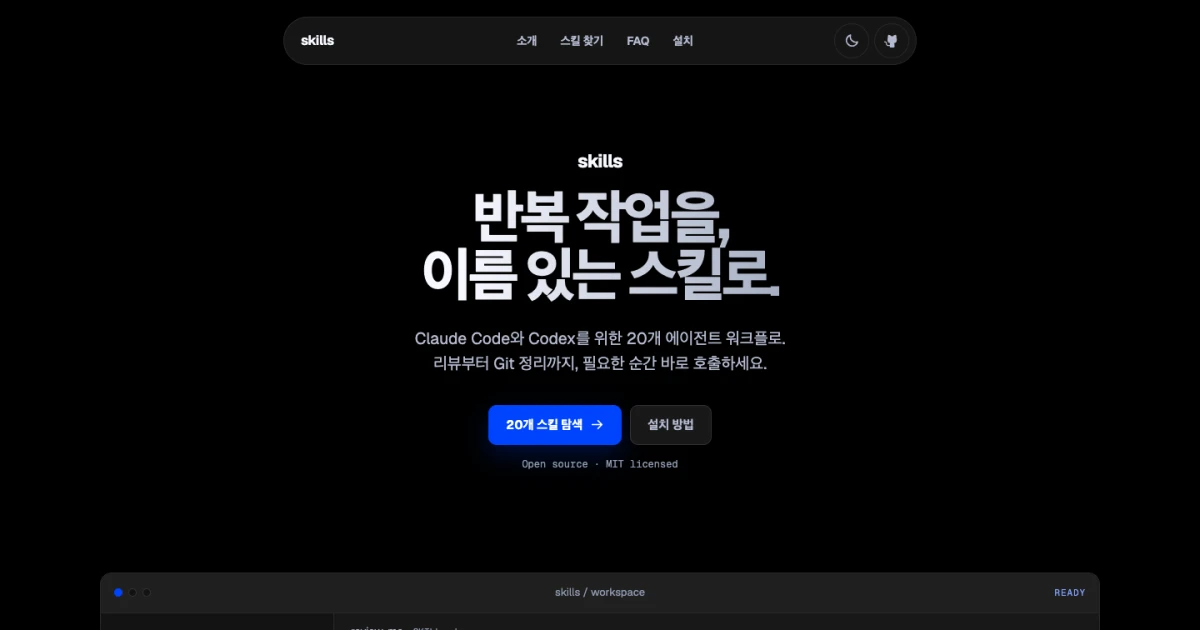
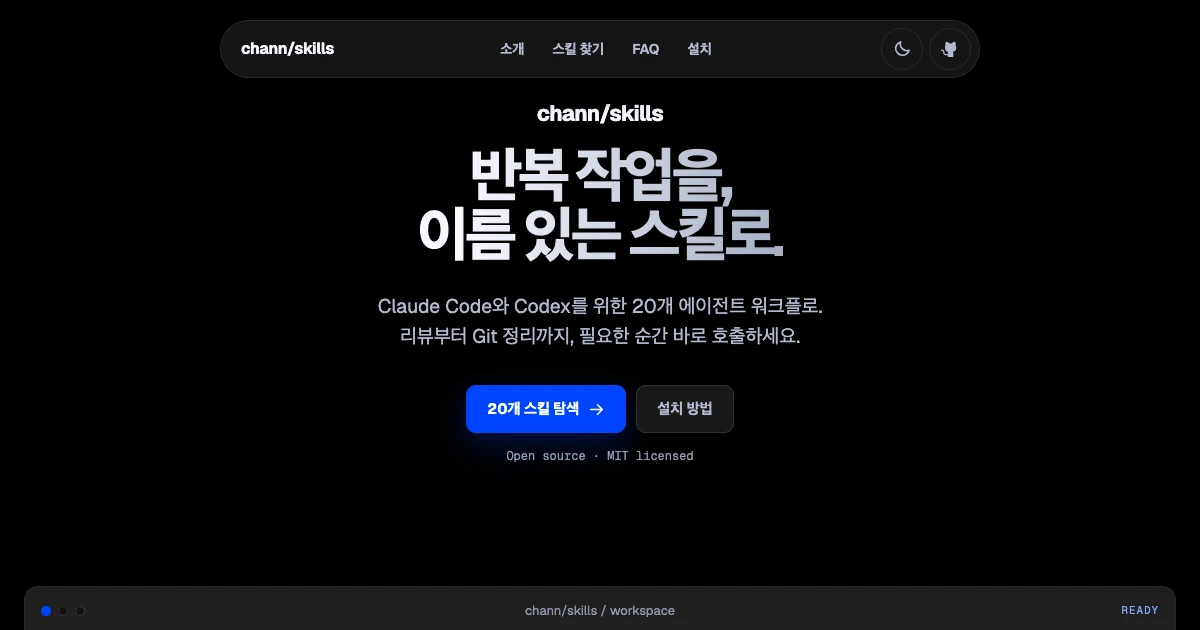
fix(site): show chann/skills repository branding

diff --git a/website/src/App.tsx b/website/src/App.tsx
@@ -16,6 +16,7 @@ import { TaglineReveal } from "./components/TaglineReveal";
 import { ThemeToggle } from "./components/ThemeToggle";
 import { categoryOrder, skills } from "./data/skills";
 
+const repositoryName = "chann/skills";
 const installCommand =
   "npx skills add chann/skills --skill '*' --agent claude-code codex --global --yes";
 const updateCommand = "npx skills update chann/skills";
@@ -109,7 +110,7 @@ function ProductPreview() {
           <i />
           <i />
         </span>
-        <span>skills / workspace</span>
+        <span>{repositoryName} / workspace</span>
         <code>ready</code>
       </div>
 
@@ -209,8 +210,8 @@ export function App() {
 
       <header className="site-header">
         <div className="site-header__inner">
-          <a className="brand" href="#main" aria-label="skills 홈">
-            <span>skills</span>
+          <a className="brand" href="#main" aria-label={`${repositoryName} 홈`}>
+            <span>{repositoryName}</span>
           </a>
 
           <nav aria-label="주요 메뉴">
@@ -251,7 +252,7 @@ export function App() {
               ease: [0.16, 1, 0.3, 1],
             }}
           >
-            <p className="hero__brand">skills</p>
+            <p className="hero__brand">{repositoryName}</p>
             <h1 id="hero-title">
               <span>반복 작업을,</span>
               <span>이름 있는 스킬로.</span>
@@ -499,8 +500,8 @@ export function App() {
 
       <footer className="site-footer">
         <div className="site-footer__top">
-          <a className="brand" href="#main" aria-label="skills 홈">
-            <span>skills</span>
+          <a className="brand" href="#main" aria-label={`${repositoryName} 홈`}>
+            <span>{repositoryName}</span>
           </a>
           <p>Practical agent workflows for software engineering.</p>
           <div>
@@ -521,7 +522,7 @@ export function App() {
           </div>
         </div>
         <div className="site-footer__word" aria-hidden="true">
-          {"skills".split("").map((letter, index) => (
+          {repositoryName.split("").map((letter, index) => (
             <motion.span
               key={index}
               initial={reduceMotion ? false : { y: "0.42em", opacity: 0 }}

diff --git a/website/index.html b/website/index.html
@@ -11,8 +11,8 @@
     <link rel="canonical" href="https://chann.github.io/skills/" />
     <meta property="og:type" content="website" />
     <meta property="og:locale" content="ko_KR" />
-    <meta property="og:site_name" content="skills" />
-    <meta property="og:title" content="skills - 반복 작업을, 이름 있는 스킬로" />
+    <meta property="og:site_name" content="chann/skills" />
+    <meta property="og:title" content="chann/skills - 반복 작업을, 이름 있는 스킬로" />
     <meta
       property="og:description"
       content="Claude Code와 Codex를 위한 검증된 에이전트 워크플로를 찾고 한 명령으로 설치하세요."
@@ -24,9 +24,9 @@
     />
     <meta property="og:image:width" content="1200" />
     <meta property="og:image:height" content="630" />
-    <meta property="og:image:alt" content="skills 웹사이트의 에이전트 워크플로 실행 화면" />
+    <meta property="og:image:alt" content="chann/skills 웹사이트의 에이전트 워크플로 실행 화면" />
     <meta name="twitter:card" content="summary_large_image" />
-    <meta name="twitter:title" content="skills - 반복 작업을, 이름 있는 스킬로" />
+    <meta name="twitter:title" content="chann/skills - 반복 작업을, 이름 있는 스킬로" />
     <meta
       name="twitter:description"
       content="Claude Code와 Codex를 위한 검증된 에이전트 워크플로를 찾고 한 명령으로 설치하세요."
@@ -48,7 +48,7 @@
         document.documentElement.dataset.theme = "dark";
       }
     </script>
-    <title>skills - 반복 작업을, 이름 있는 스킬로</title>
+    <title>chann/skills - 반복 작업을, 이름 있는 스킬로</title>
     <script type="application/ld+json">
       {
         "@context": "https://schema.org",

diff --git a/website/public/404.html b/website/public/404.html
@@ -4,7 +4,7 @@
     <meta charset="UTF-8" />
     <meta name="viewport" content="width=device-width, initial-scale=1.0" />
     <meta name="robots" content="noindex" />
-    <title>404 - skills</title>
+    <title>404 - chann/skills</title>
     <link rel="icon" href="/skills/favicon.svg" type="image/svg+xml" />
     <style>
       :root {
@@ -115,7 +115,7 @@
   </head>
   <body>
     <main>
-      <span class="kicker">404</span>
+      <span class="kicker">chann/skills · 404</span>
       <h1>페이지가 없습니다.</h1>
       <p>주소가 바뀌었거나 잘못 입력됐습니다. 스킬 카탈로그는 홈에 있습니다.</p>
       <a class="button" href="/skills/">홈으로 돌아가기</a>

diff --git a/website/src/styles.css b/website/src/styles.css
@@ -1518,7 +1518,7 @@ code {
   margin: 52px 0 0;
   overflow: hidden;
   color: var(--accent);
-  font-size: clamp(9rem, 24vw, 22rem);
+  font-size: clamp(5rem, 12vw, 11rem);
   font-weight: 730;
   letter-spacing: -0.09em;
   line-height: 0.84;
@@ -1893,7 +1893,7 @@ code {
 
   .site-footer__word {
     margin-top: 40px;
-    font-size: 34vw;
+    font-size: 17vw;
   }
 }
 
